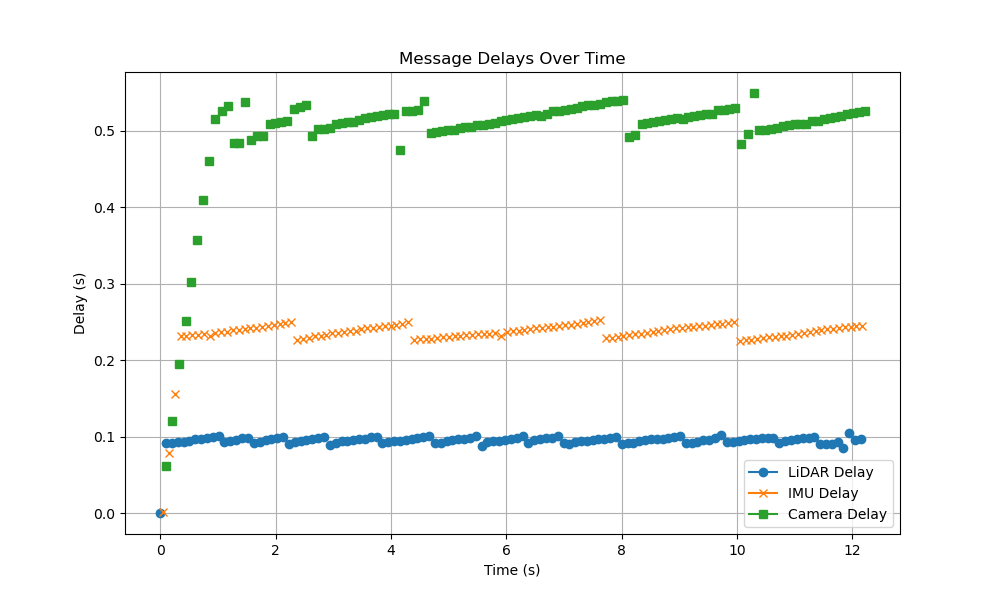
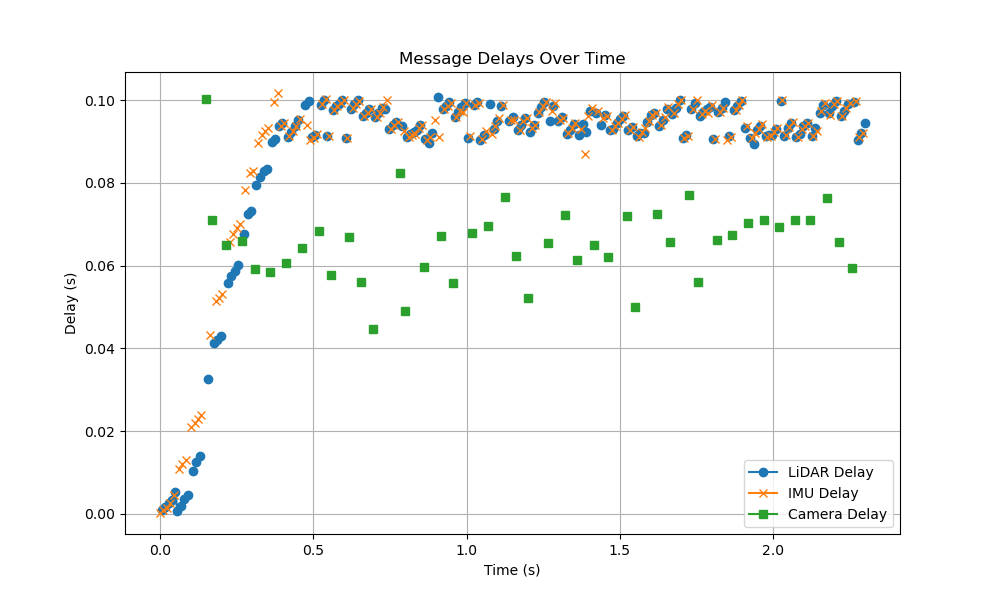
added working custom executor

diff --git a/src/priority_executor.cpp b/src/priority_executor.cpp
@@ -1,40 +1,62 @@
 #include "priority_executor.hpp"
 
-PriorityExecutor::PriorityExecutor()
-: rclcpp::Executor(rclcpp::ExecutorOptions())
+CustomExecutor::CustomExecutor()
+    : rclcpp::Executor(rclcpp::ExecutorOptions())
 {
 }
 
-void PriorityExecutor::spin_once_impl(std::chrono::nanoseconds timeout)
+void CustomExecutor::add_node(const rclcpp::Node::SharedPtr &node)
 {
-    rclcpp::AnyExecutable any_exec;
-    if (!camera_queue_.empty()) {
-        any_exec = camera_queue_.front();
-        camera_queue_.pop();
-    } else if (get_next_executable(any_exec, timeout)) {
-        if (any_exec.subscription && any_exec.subscription->get_topic_name() == "camera/image") {
-            camera_queue_.push(any_exec);
-            return;
+    camera_image_sub_ = node->create_subscription<sensor_msgs::msg::Image>(
+        "/camera/images", 10,
+        this {
+            last_camera_image_ = msg;
+        });
+
+    scan_sub_ = node->create_subscription<sensor_msgs::msg::LaserScan>(
+        "/scan", 10,
+        this {
+            last_scan_ = msg;
+        });
+
+    rclcpp::Executor::add_node(node);
+}
+
+void CustomExecutor::spin()
+{
+    while (rclcpp::ok())
+    {
+        if (last_camera_image_)
+        {
+            process_camera_images();
+            last_camera_image_.reset();
         }
-    }
+        else
+        {
+            process_other_topics();
+        }
 
-    if (any_exec.callback_group) {
-        any_exec.callback_group->can_be_taken_from().store(false);
-    }
-    execute_any_executable(any_exec);
-    if (any_exec.callback_group) {
-        any_exec.callback_group->can_be_taken_from().store(true);
+        rclcpp::spin_some(this->shared_from_this());
     }
 }
 
-void PriorityExecutor::spin()
+void CustomExecutor::process_camera_images()
 {
-    while (rclcpp::ok()) {
-        spin_once_impl(std::chrono::nanoseconds::max());
-    }
+    RCLCPP_INFO(this->get_logger(), "Processing camera images");
+    // Add your image processing code here
 }
 
-bool PriorityExecutor::get_next_executable(rclcpp::AnyExecutable & any_exec, std::chrono::nanoseconds timeout)
+void CustomExecutor::process_other_topics()
 {
-    return rclcpp::Executor::get_next_executable(any_exec, timeout);
+    if (last_scan_)
+    {
+        RCLCPP_INFO(this->get_logger(), "Processing scan data");
+        // Add your scan processing code here
+        last_scan_.reset();
+    }
+    else
+    {
+        RCLCPP_INFO(this->get_logger(), "No prioritized topics, processing other topics");
+        // Add code to process other topics here
+    }
 }

diff --git a/launch/launch.py b/launch/launch.py
@@ -15,7 +15,7 @@ def generate_launch_description():
             executable='imu_node',
             name='imu_node',
             output='screen',
-            parameters=[{'frequency': 40}] 
+            parameters=[{'frequency': 100}] 
         ),
         Node(
             package='mc_sim',
@@ -24,26 +24,26 @@ def generate_launch_description():
             output='screen',
             parameters=[{'frequency': 20}]
         ),
+        # Node(
+        #     package='mc_sim',
+        #     executable='navigation_node',
+        #     name='navigation_node',
+        #     output='screen',
+        #     parameters=[
+        #         {'lidar_processing_time_ms': 5},
+        #         {'imu_processing_time_ms': 5},
+        #         {'camera_processing_time_ms': 500}
+        #     ]
+        # ),
         Node(
             package='mc_sim',
-            executable='navigation_node',
-            name='navigation_node',
+            executable='multi_nav_node',
+            name='multi_nav_node',
             output='screen',
             parameters=[
                 {'lidar_processing_time_ms': 100},
-                {'imu_processing_time_ms': 200},
-                {'camera_processing_time_ms': 400}
+                {'imu_processing_time_ms': 100},
+                {'camera_processing_time_ms': 100}
             ]
         ),
-        # Node(
-        #     package='mc_sim',
-        #     executable='multi_nav_node',
-        #     name='multi_nav_node',
-        #     output='screen',
-        #     parameters=[
-        #         {'lidar_processing_time_ms': 100},
-        #         {'imu_processing_time_ms': 100},
-        #         {'camera_processing_time_ms': 100}
-        #     ]
-        # ),
     ])

diff --git a/src/custom_executor.cpp b/src/custom_executor.cpp
@@ -1,0 +1,72 @@
+#include "custom_executor.hpp"
+
+CustomExecutor::CustomExecutor(const rclcpp::ExecutorOptions & options)
+: rclcpp::Executor(options)
+{
+}
+
+CustomExecutor::~CustomExecutor()
+{
+}
+
+void CustomExecutor::spin()
+{
+  // Custom spin logic or call base class implementation
+  while (rclcpp::ok()) {
+    spin_once_impl(std::chrono::nanoseconds(100000000));  // Example timeout of 100ms
+  }
+}
+
+void CustomExecutor::spin_once_impl(std::chrono::nanoseconds timeout)
+{
+  // Custom logic or call base class implementation
+  rclcpp::Executor::spin_once(timeout);
+}
+
+
+
+/*
+
+void CustomExecutor::spin_once_impl(std::chrono::nanoseconds timeout)
+{
+  // Create a wait set
+  rclcpp::WaitSet wait_set;
+
+  // Add subscriptions, services, timers, etc. to the wait set
+  for (auto & handle : get_all_handles()) {
+    wait_set.add_handle(handle);
+  }
+
+  // Wait for events
+  auto result = wait_set.wait(timeout);
+
+  // Check which handles are ready and create executables
+  for (auto & handle : get_all_handles()) {
+    if (wait_set.is_ready(handle)) {
+      auto executable = create_executable(handle);
+      execute_executable(executable);
+    }
+  }
+}
+
+std::shared_ptr<Executable> CustomExecutor::create_executable(rclcpp::AnyExecutable handle)
+{
+  // Create an executable from the handle
+  auto executable = std::make_shared<Executable>();
+  executable->callback = handle.get_callback();
+  executable->data = handle.get_data();
+  return executable;
+}
+
+void CustomExecutor::execute_executable(std::shared_ptr<Executable> executable)
+{
+  // Execute the callback
+  executable->callback(executable->data);
+}
+
+
+
+
+
+
+*/

diff --git a/src/nav_node.cpp b/src/nav_node.cpp
@@ -1,5 +1,5 @@
 #include "nav_node.hpp"
-#include "priority_executor.hpp"
+// #include "priority_executor.hpp"
 
 NavigationNode::NavigationNode()
 : Node("navigation_node")
@@ -13,7 +13,7 @@ NavigationNode::NavigationNode()
     this->get_parameter("camera_processing_time_ms", camera_processing_time_ms_);
 
     lidar_subscription_ = this->create_subscription<sensor_msgs::msg::LaserScan>(
-        "scan", 10, std::bind(&NavigationNode::lidar_callback, this, std::placeholders::_1));
+        "scan", 10, std::bind(&NavigationNode::lidar_callback, this, std::placeholders::_1)); //what is the 10 buffer or queueu who creates this queue
     imu_subscription_ = this->create_subscription<sensor_msgs::msg::Imu>(
         "imu/data", 10, std::bind(&NavigationNode::imu_callback, this, std::placeholders::_1));
     camera_subscription_ = this->create_subscription<sensor_msgs::msg::Image>(
@@ -92,7 +92,8 @@ int main(int argc, char * argv[])
     auto node = std::make_shared<NavigationNode>();
 
     // auto executor = std::make_shared<rclcpp::executors::SingleThreadedExecutor>();
-    auto executor = std::make_shared<PriorityExecutor>();
+    // auto executor = std::make_shared<CustomExecutor>();
+    auto executor = std::make_shared<CustomExecutor>();
     executor->add_node(node);
     executor->spin();
     rclcpp::shutdown();

diff --git a/include/mc_sim/priority_executor.hpp b/include/mc_sim/priority_executor.hpp
@@ -1,23 +1,26 @@
-#ifndef PRIORITY_EXECUTOR_HPP
-#define PRIORITY_EXECUTOR_HPP
+#ifndef EXECUTOR_HPP
+#define EXECUTOR_HPP
 
-#include "rclcpp/rclcpp.hpp"
-#include <queue>
-#include <functional>
+#include <rclcpp/rclcpp.hpp>
+#include <sensor_msgs/msg/image.hpp>
+#include <sensor_msgs/msg/laser_scan.hpp>
 
-class PriorityExecutor : public rclcpp::Executor
+class CustomExecutor : public rclcpp::Executor
 {
 public:
-    PriorityExecutor();
-
-    void spin_once_impl(std::chrono::nanoseconds timeout) override;
+    CustomExecutor();
+    void add_node(const rclcpp::Node::SharedPtr &node);
     void spin() override;
 
 private:
-    std::queue<rclcpp::AnyExecutable> camera_queue_;
-    std::queue<rclcpp::AnyExecutable> other_queue_;
+    void process_camera_images();
+    void process_other_topics();
 
-    bool get_next_executable(rclcpp::AnyExecutable & any_exec, std::chrono::nanoseconds timeout);
+    rclcpp::Subscription<sensor_msgs::msg::Image>::SharedPtr camera_image_sub_;
+    rclcpp::Subscription<sensor_msgs::msg::LaserScan>::SharedPtr scan_sub_;
+
+    sensor_msgs::msg::Image::SharedPtr last_camera_image_;
+    sensor_msgs::msg::LaserScan::SharedPtr last_scan_;
 };
 
-#endif // PRIORITY_EXECUTOR_HPP
+#endif // EXECUTOR_HPP

diff --git a/src/camera_node.cpp b/src/camera_node.cpp
@@ -5,7 +5,7 @@ CameraPublisher::CameraPublisher()
 {
     this->declare_parameter<int>("frequency", 10);
     this->get_parameter("frequency", frequency_);
-    camera_publisher_ = this->create_publisher<sensor_msgs::msg::Image>("camera/image", 10);
+    camera_publisher_ = this->create_publisher<sensor_msgs::msg::Image>("camera/image", 10);//does the qos matter to executor
     timer_ = this->create_wall_timer(
         std::chrono::milliseconds(1000 / frequency_),
         std::bind(&CameraPublisher::publish_camera_data, this)

diff --git a/include/mc_sim/custom_executor.hpp b/include/mc_sim/custom_executor.hpp
@@ -1,0 +1,18 @@
+#ifndef CUSTOM_EXECUTOR_HPP_
+#define CUSTOM_EXECUTOR_HPP_
+
+#include "rclcpp/rclcpp.hpp"
+
+class CustomExecutor : public rclcpp::Executor
+{
+public:
+  CustomExecutor(const rclcpp::ExecutorOptions & options = rclcpp::ExecutorOptions());
+  ~CustomExecutor();
+
+  void spin() override;
+
+protected:
+  void spin_once_impl(std::chrono::nanoseconds timeout) override;
+};
+
+#endif  // CUSTOM_EXECUTOR_HPP_

diff --git a/include/mc_sim/nav_node.hpp b/include/mc_sim/nav_node.hpp
@@ -10,6 +10,9 @@
 #include <thread>
 #include <fstream>
 #include <iomanip>
+#include "custom_executor.hpp"
+
+
 
 class NavigationNode : public rclcpp::Node
 {
